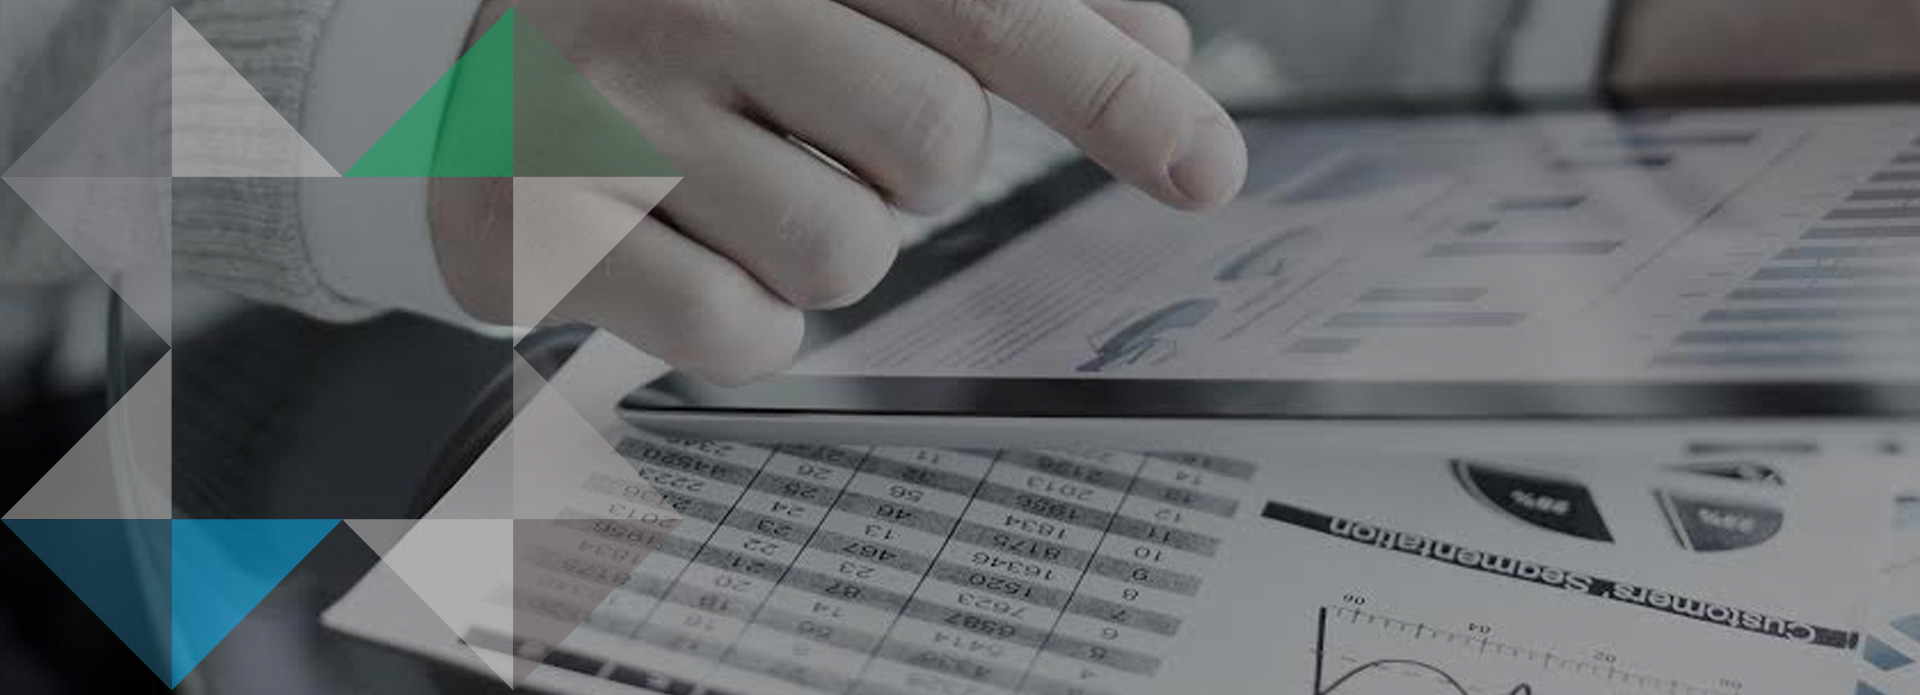
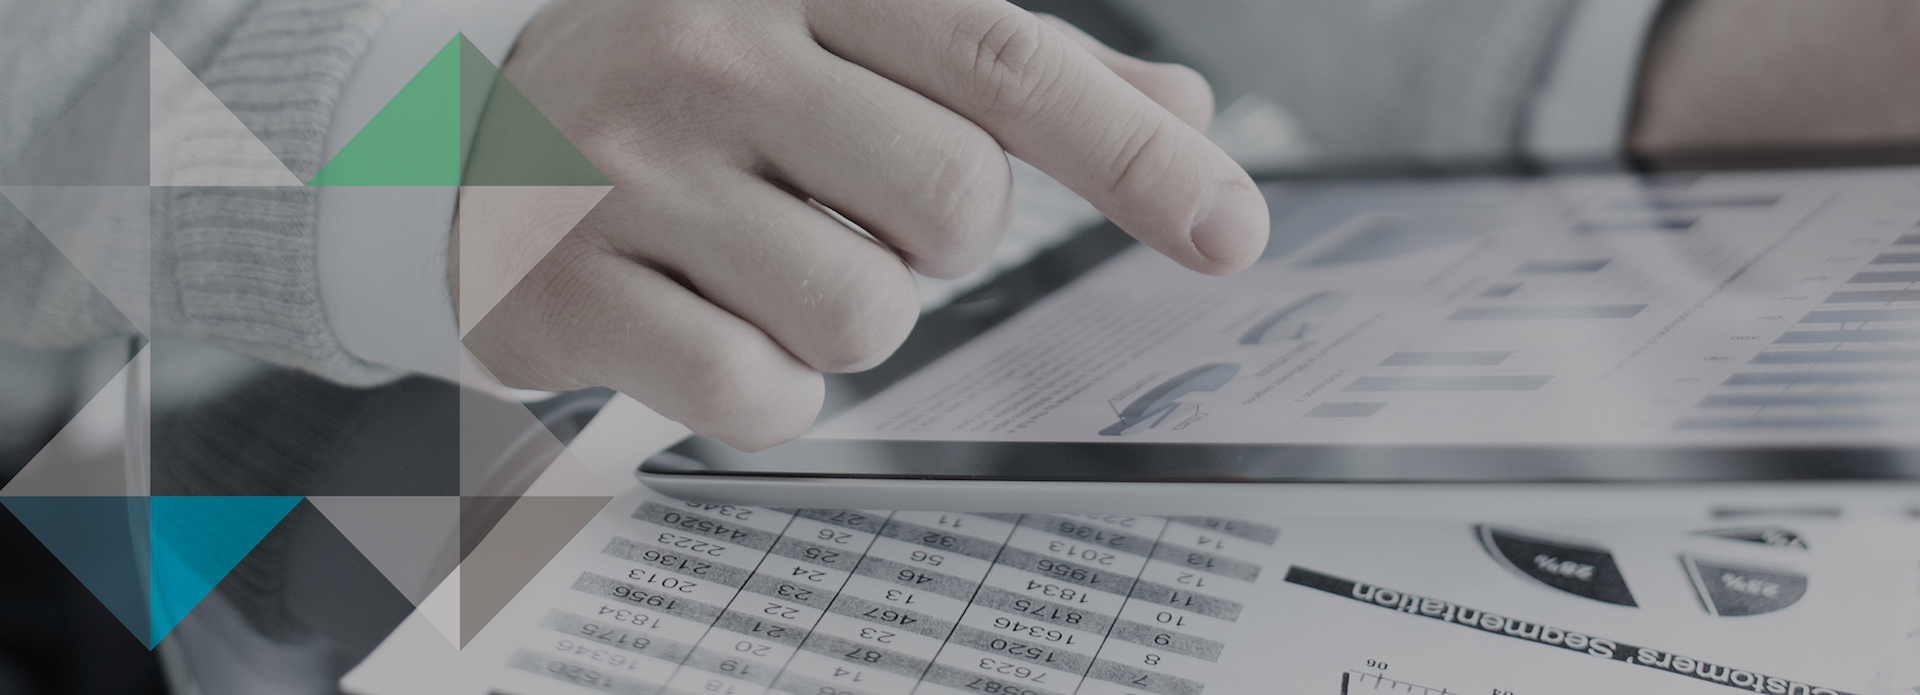
Updated homepage and ebook page

diff --git a/ebook.html b/ebook.html
@@ -138,7 +138,7 @@
     <!--=== Breadcrumbs ===-->
     <div class="breadcrumbs">
         <div class="container">
-            <h1 class="pull-left">Contact Us</h1>
+            <h1 class="pull-left">Download your Free e-book</h1>
             <!--<ul class="pull-right breadcrumb">
                 <li><a href="index.html">Home</a></li>
                 <li><a href="">Pages</a></li>
@@ -184,9 +184,7 @@ begin automatically.
                         <h3 class="panel-title"><i class="fa fa-tasks"></i>Contact the ETW team</h3>
                     </div>
 
-                    <div class="pipedriveWebForms" data-pd-webforms="https://pipedrivewebforms.com/form/902452f3c7b260a9fa2750f478790c30">
-                      <script src="https://pipedrivewebforms.com/webforms.min.js"></script>
-                    </div>
+                    <div class="pipedriveWebForms" data-pd-webforms="https://pipedrivewebforms.com/form/655b52118e6e728a3bb1ef0a3276889d959610"><script src="https://pipedrivewebforms.com/webforms.min.js"></script></div>
                 </div>
             </div><!--/col-md-9-->
 
